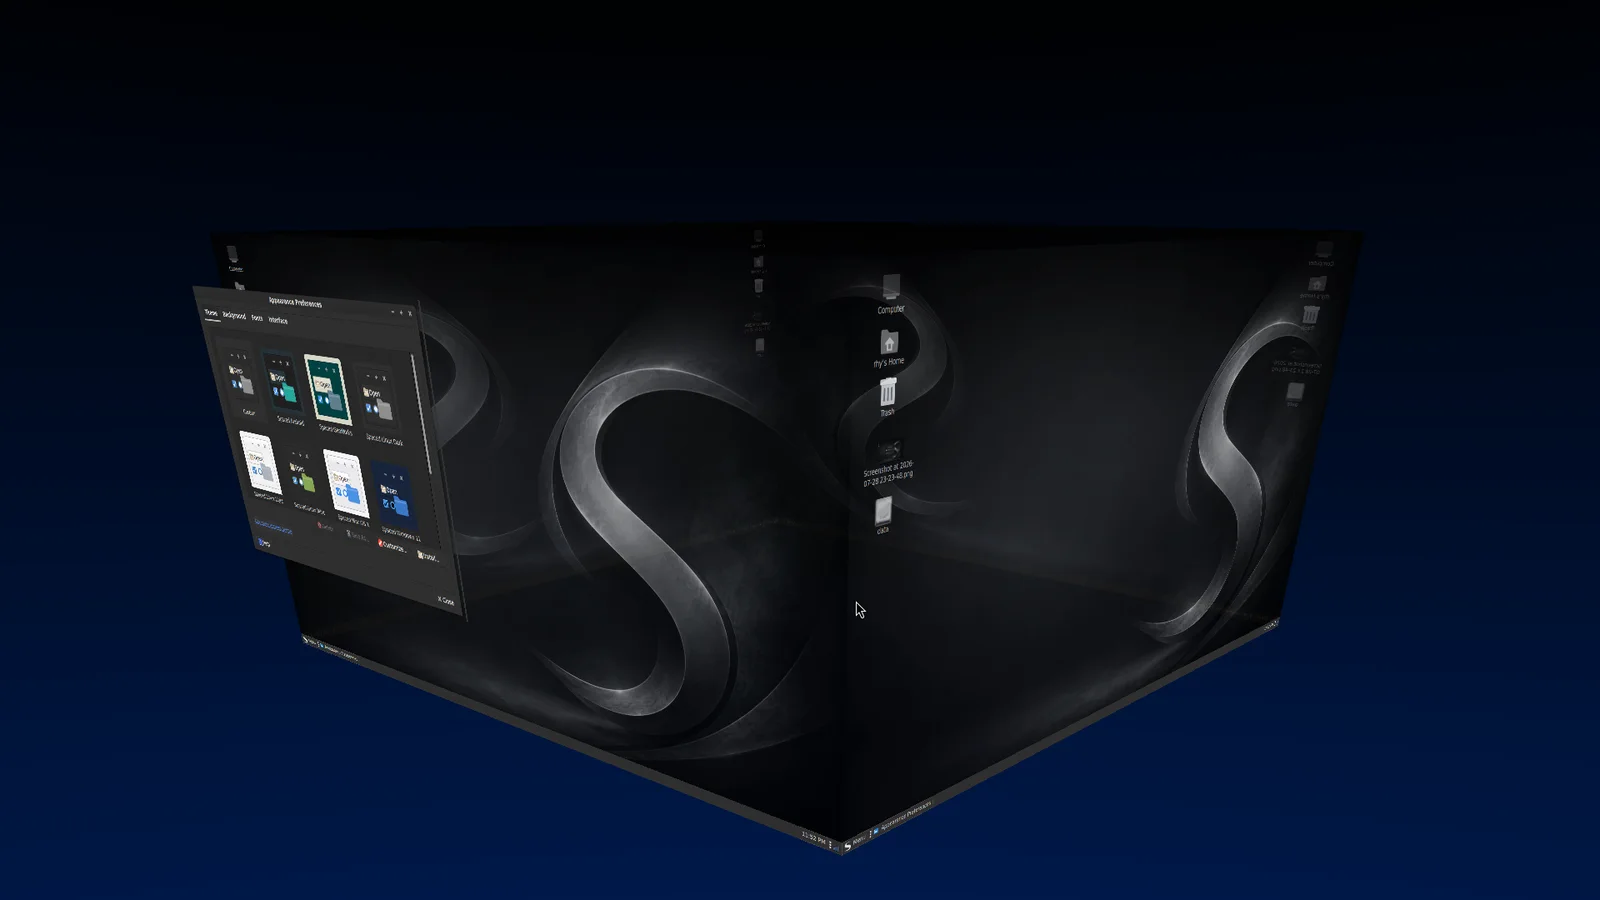
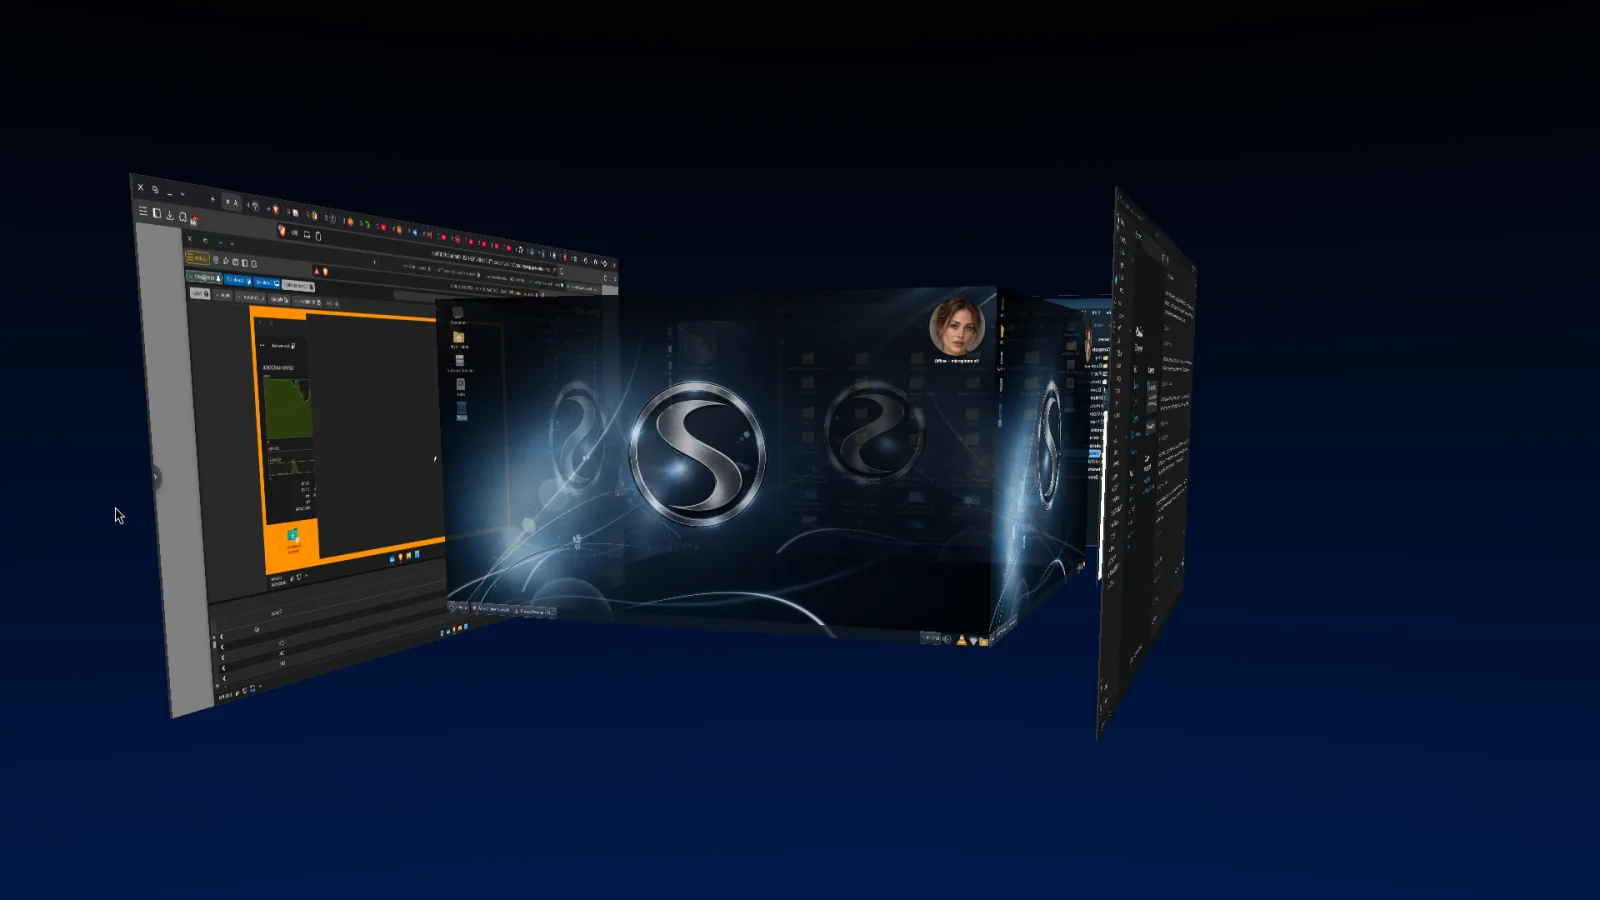
Refresh website screenshots for 10.26.5

Changed region(s): [[0.0625, 0.1867, 0.8438, 0.9644], [0.6875, 0.2178, 0.7188, 0.28]]

diff --git a/website/index.html b/website/index.html
@@ -139,10 +139,10 @@
   </div>
   <div class="showcase-grid">
     <figure class="shot shot-wide">
-      <button class="screenshot-button" type="button" data-image="/assets/screenshots/desktop-hero.webp?v=20260806" data-title="Spaced Linux dark desktop">
-        <img src="/assets/screenshots/desktop-hero.webp?v=20260806" loading="lazy" alt="Spaced Linux dark desktop">
+      <button class="screenshot-button" type="button" data-image="/assets/screenshots/desktop-hero.webp?v=20261020" data-title="Windows 11 Dark with Voxa">
+        <img src="/assets/screenshots/desktop-hero.webp?v=20261020" loading="lazy" alt="Spaced Linux Windows 11 Dark theme running the Voxa local AI assistant">
       </button>
-      <figcaption><b>A coherent dark desktop</b><span>System controls, graphics tools, and hardware monitoring belong in one familiar workspace.</span></figcaption>
+      <figcaption><b>A coherent dark desktop</b><span>Themed controls, desktop integration, and local AI share one polished workspace.</span></figcaption>
     </figure>
     <figure class="shot">
       <button class="screenshot-button" type="button" data-image="/assets/screenshots/desktop-compiz.webp" data-title="Compiz workspace cube">
@@ -163,8 +163,8 @@
       <figcaption><b>Current applications</b><span>Flatpak and Flathub deliver modern software while the base system stays dependable.</span></figcaption>
     </figure>
     <figure class="shot">
-      <button class="screenshot-button" type="button" data-image="/assets/screenshots/desktop-theme-cube-dark.webp" data-title="Dark coordinated theme on the Compiz cube">
-        <img src="/assets/screenshots/desktop-theme-cube-dark.webp" loading="lazy" alt="Spaced Linux dark coordinated theme displayed across the Compiz workspace cube">
+      <button class="screenshot-button" type="button" data-image="/assets/screenshots/desktop-theme-cube-dark.webp?v=20261020" data-title="Win7Aero Dark across Compiz workspaces">
+        <img src="/assets/screenshots/desktop-theme-cube-dark.webp?v=20261020" loading="lazy" alt="Spaced Win7Aero Dark theme displayed across Compiz workspaces">
       </button>
       <figcaption><b>One coordinated identity</b><span>GTK, icons, wallpaper, panels, and Compiz presentation change together.</span></figcaption>
     </figure>

diff --git a/website/themes.html b/website/themes.html
@@ -54,8 +54,8 @@
   <div class="theme-grid">
 
     <article class="theme-card">
-      <button class="screenshot-button" type="button" data-image="/assets/themes/theme-linux-dark.webp" data-title="Spaced Linux Dark">
-        <img src="/assets/themes/theme-linux-dark.webp" loading="lazy" alt="Spaced Linux Dark theme wallpaper">
+      <button class="screenshot-button" type="button" data-image="/assets/themes/theme-linux-dark.webp?v=20261020" data-title="Spaced Linux Dark">
+        <img src="/assets/themes/theme-linux-dark.webp?v=20261020" loading="lazy" alt="Spaced Linux Dark theme shown across Compiz workspaces">
       </button>
       <div class="theme-body">
         <h3>Spaced Linux Dark</h3>
@@ -120,8 +120,8 @@
     </article>
 
     <article class="theme-card">
-      <button class="screenshot-button" type="button" data-image="/assets/themes/theme-win7aero-dark.webp" data-title="Win7Aero Dark">
-        <img src="/assets/themes/theme-win7aero-dark.webp" loading="lazy" alt="Spaced Win7Aero Dark theme wallpaper">
+      <button class="screenshot-button" type="button" data-image="/assets/themes/theme-win7aero-dark.webp?v=20261020" data-title="Win7Aero Dark">
+        <img src="/assets/themes/theme-win7aero-dark.webp?v=20261020" loading="lazy" alt="Spaced Win7Aero Dark theme with a translucent terminal and dark system controls">
       </button>
       <div class="theme-body">
         <h3>Win7Aero Dark</h3>
@@ -200,7 +200,7 @@
 </section>
 
 <section class="feature">
-  <img src="/assets/screenshots/desktop-theme-cube-dark.webp" loading="lazy" alt="Dark coordinated theme displayed across the Compiz workspace cube">
+  <img src="/assets/screenshots/desktop-theme-cube-dark.webp?v=20261020" loading="lazy" alt="Win7Aero Dark coordinated theme displayed across Compiz workspaces">
   <div>
     <p class="kicker">ONE CHOICE, COMPLETE COORDINATION</p>
     <h2>Switch the whole desktop from the Appearance capplet.</h2>
